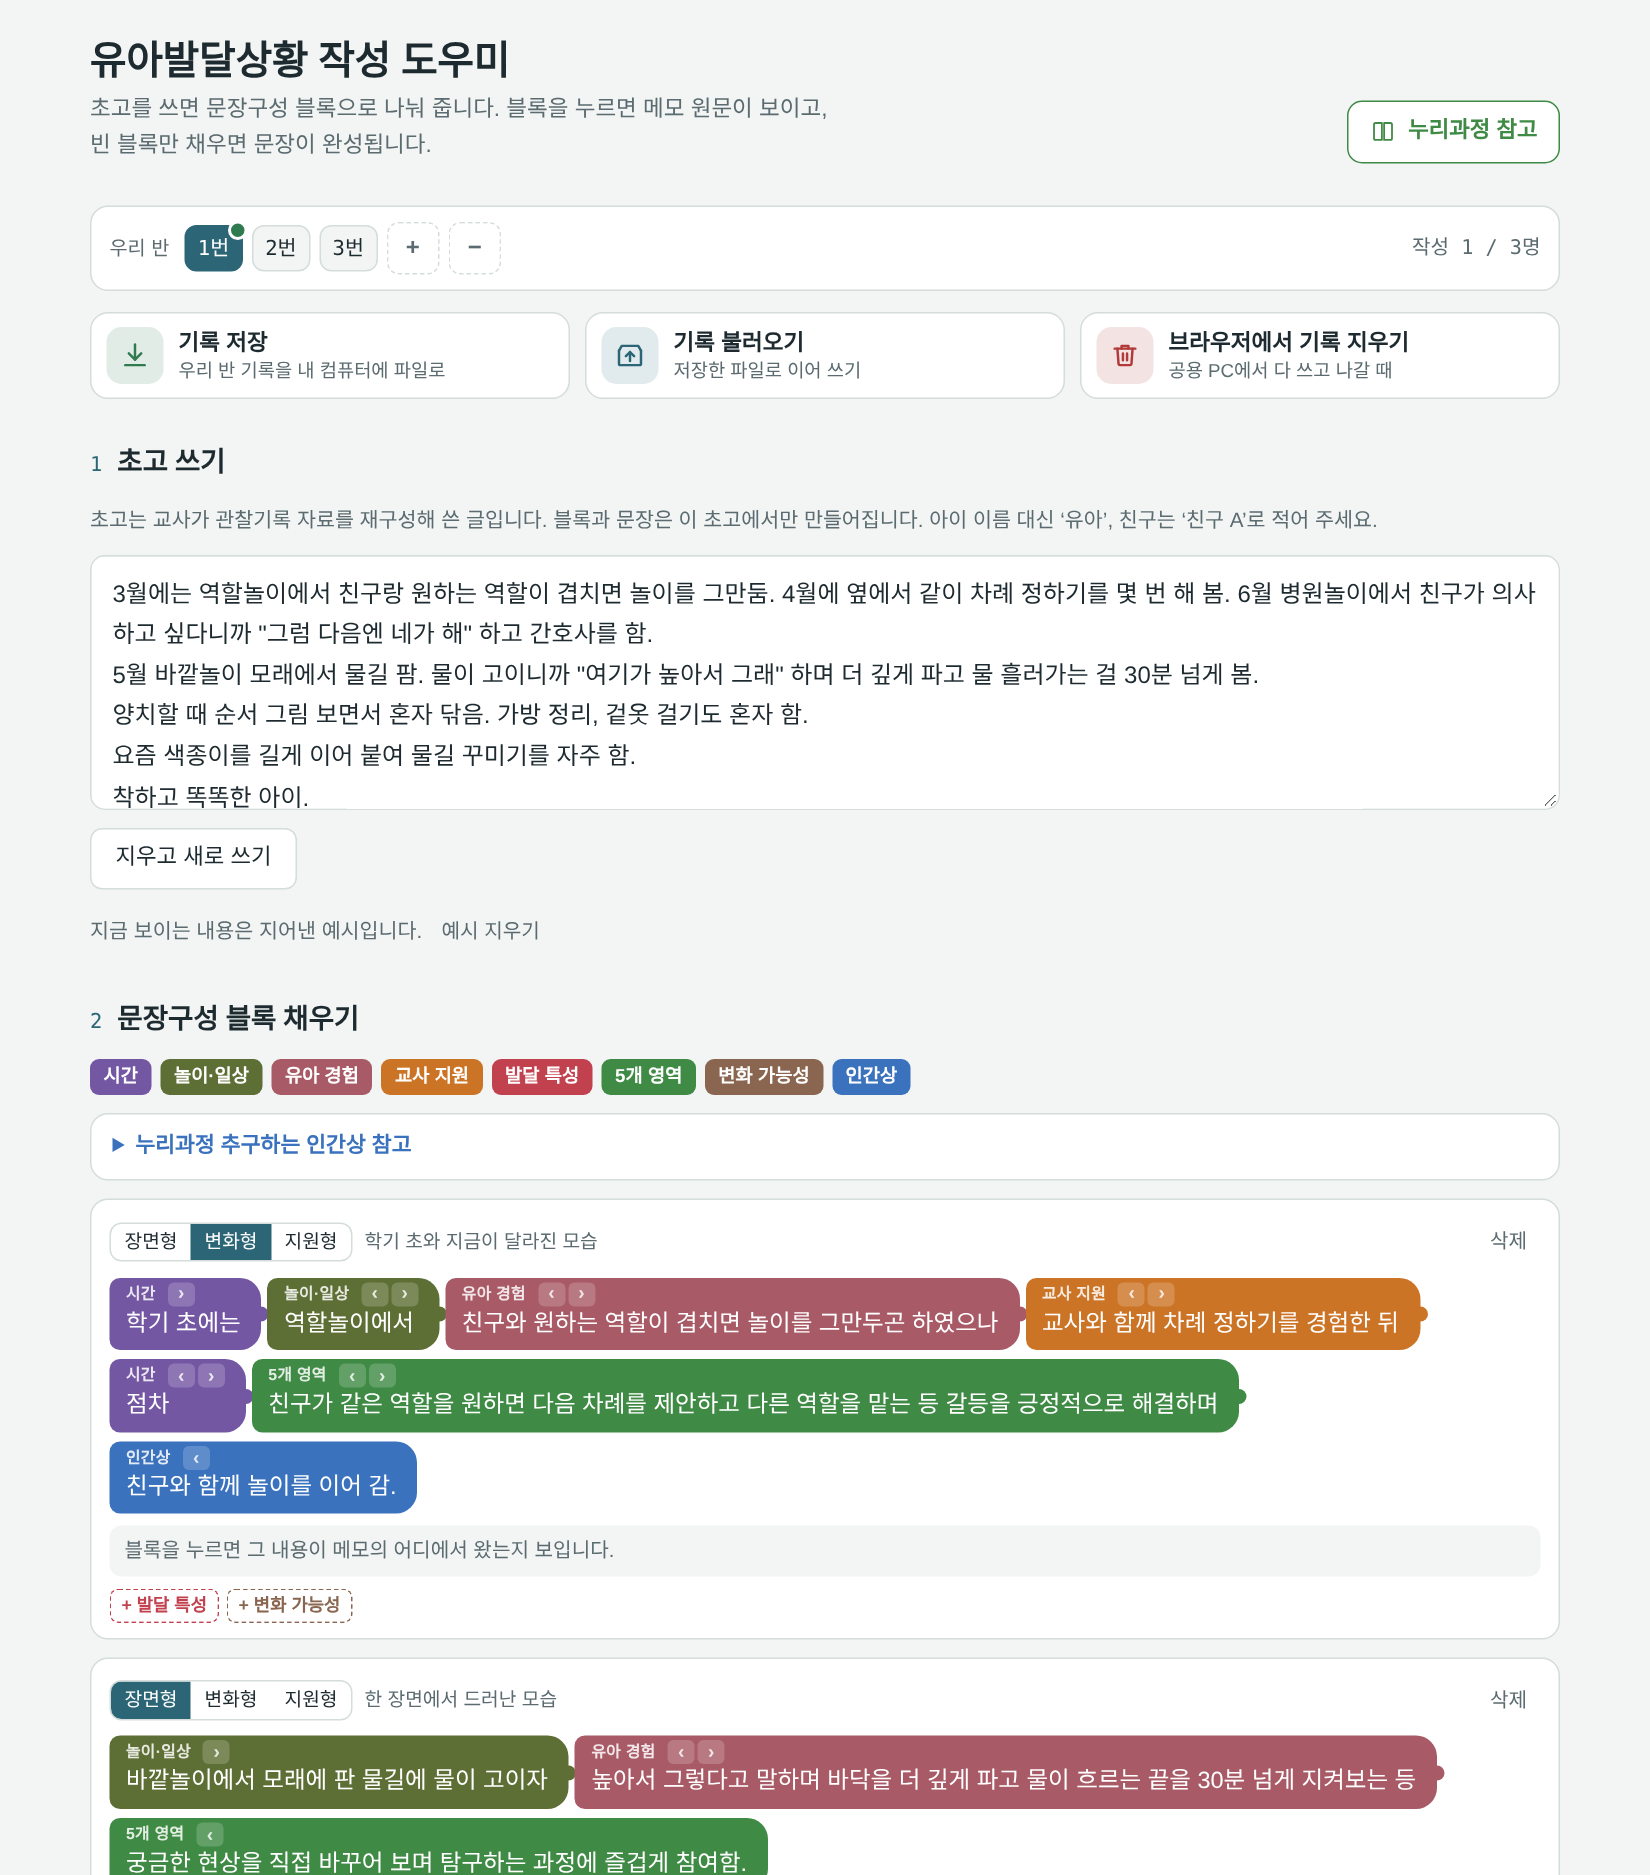
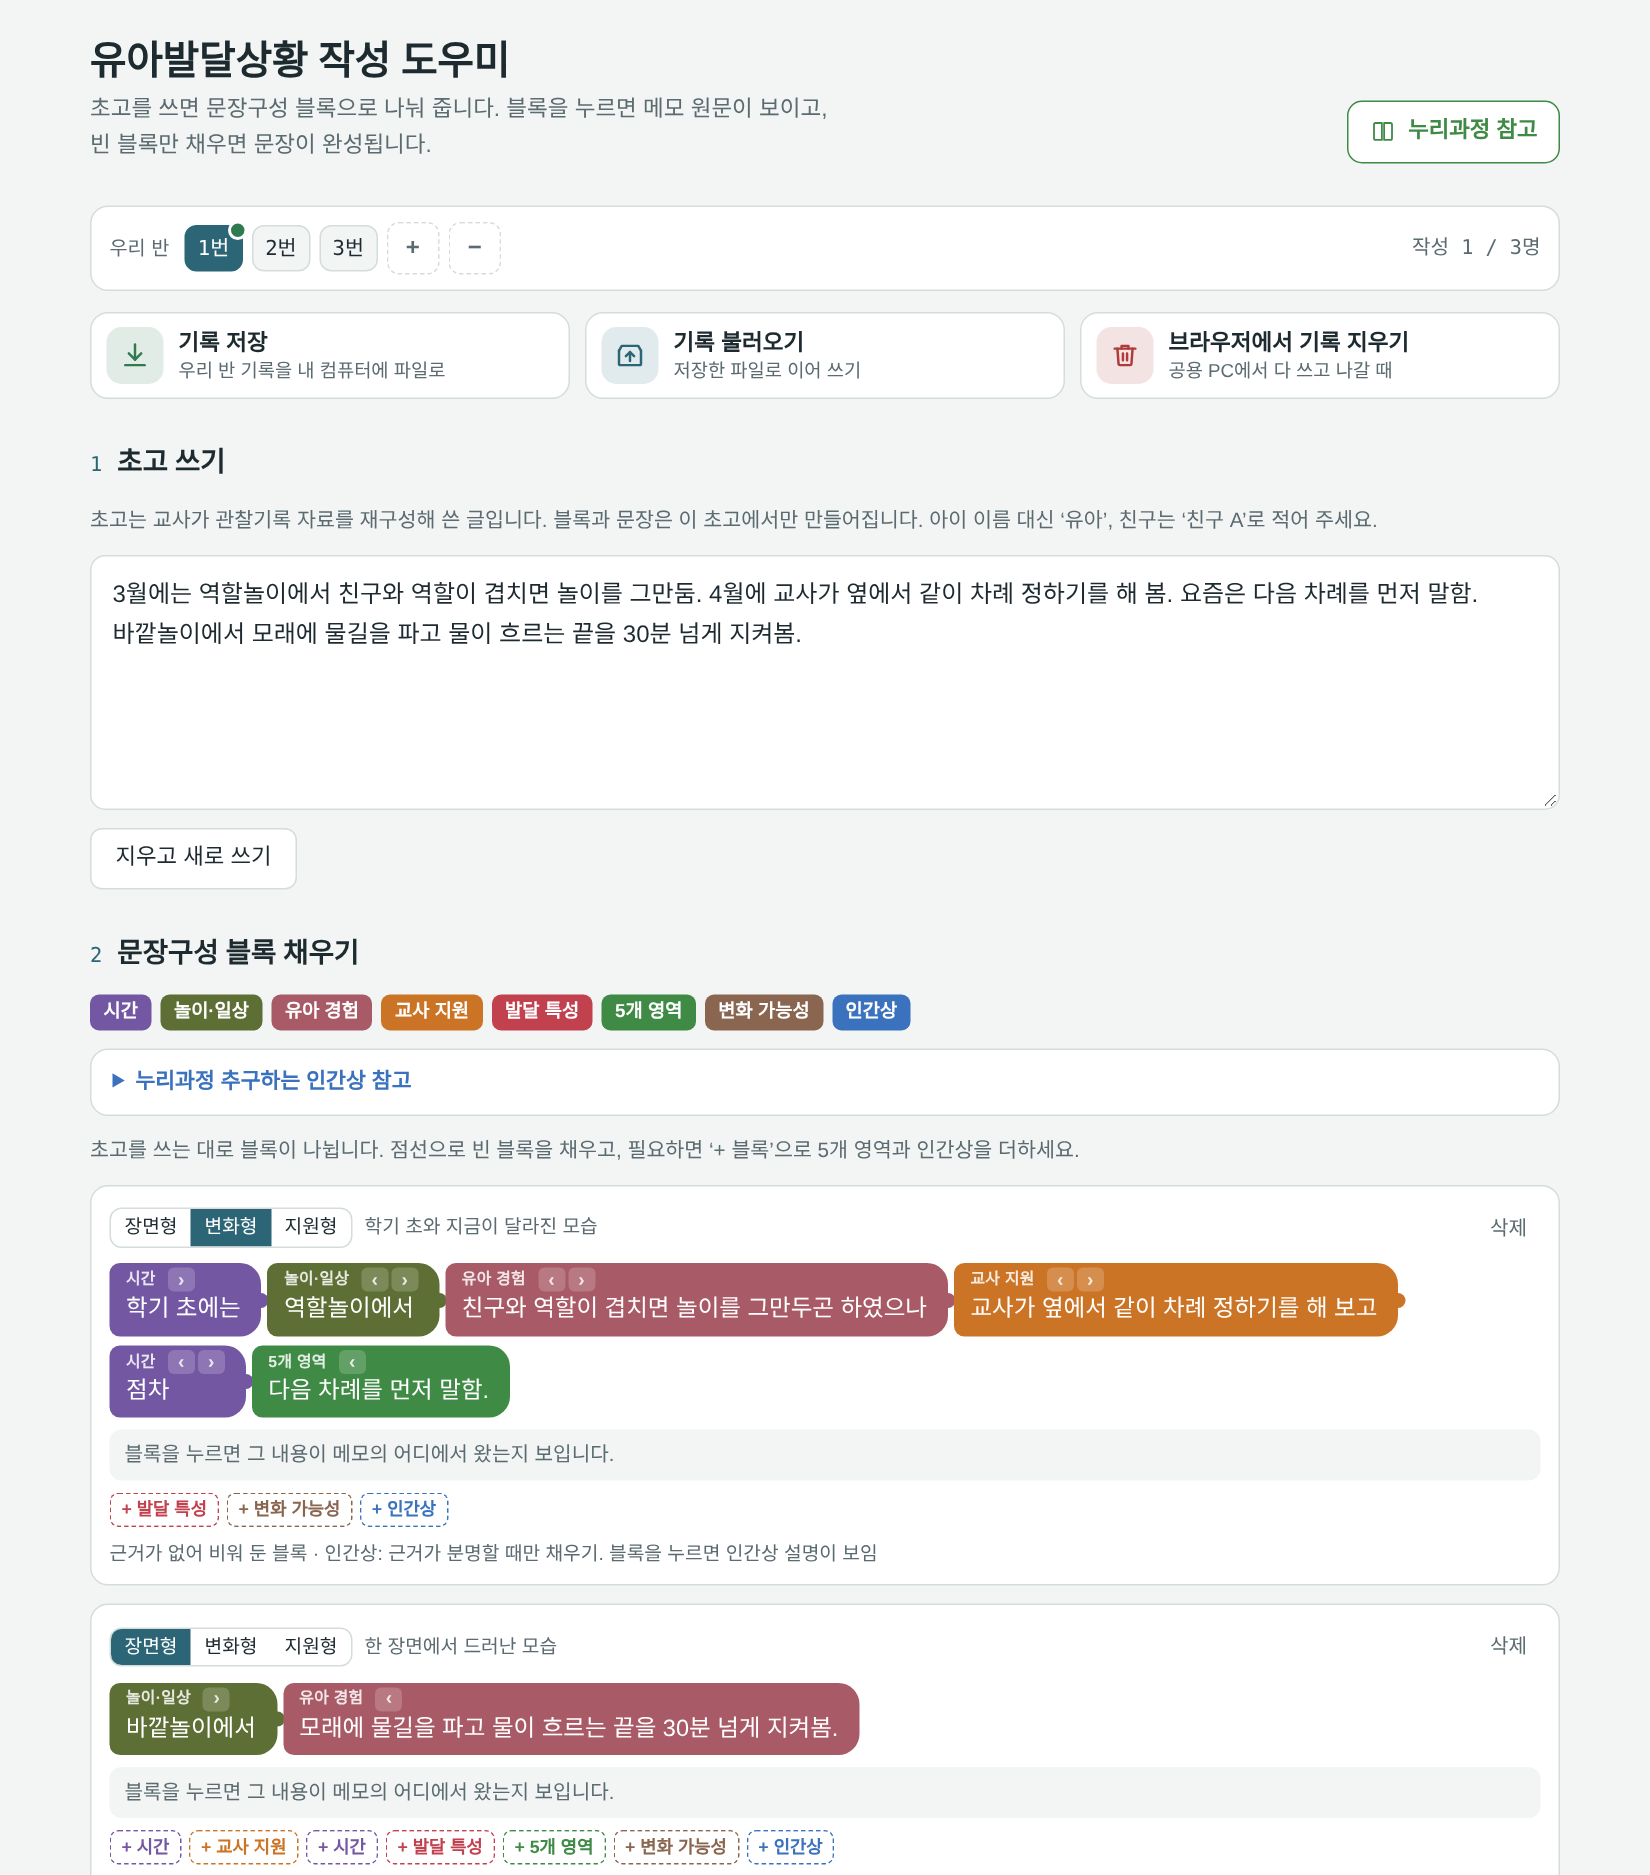
처음 열 때 지어낸 예시 없이 빈 우리 반으로 시작
- 예전에 저장된 예시 상태도 비움, 직접 쓴 기록은 그대로 유지

Claude-Session: https://claude.ai/code/session_01Qjx13UVWkS7fK8GQDt9gxG

diff --git a/index.html b/index.html
@@ -424,7 +424,9 @@ function load(){
     const k=Object.assign(newKid(1),{notes:o.notes||"",sents:o.sents,leftover:o.leftover||[],auto:!!o.auto});return {age:o.age||"5",isExample:false,kids:[k],cur:k.id}}}catch(e){}
   return null;
 }
-let S=load()||example();
+/* 처음 여는 사람에게는 예시 없이 빈 우리 반 (예전에 저장된 예시도 비움) */
+function emptyClass(){const k=newKid(1);return {isExample:false,kids:[k,newKid(2),newKid(3)],cur:k.id}}
+let S=load();if(!S||S.isExample)S=emptyClass();
 let C=S.kids.find(k=>k.id===S.cur)||S.kids[0];
 const save=()=>{try{localStorage.setItem(KEY,JSON.stringify(S))}catch(e){}};
 const $=s=>document.querySelector(s);

diff --git a/README.md b/README.md
@@ -4,6 +4,8 @@
 
 ![화면](screenshot.png)
 
+처음 열면 빈 우리 반(1번·2번·3번)이 나옵니다. 위 화면은 초고를 써 넣은 모습입니다.
+
 ## 사용 방법
 
 1. **우리 반**: 번호로 아이를 고릅니다. `+` 로 아이를 더하고 `−` 로 뺍니다.
